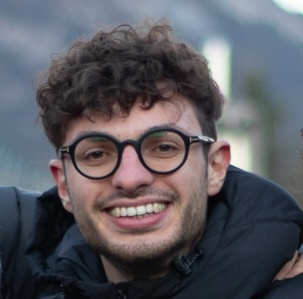
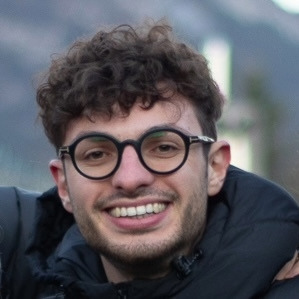
add saul pierotti to members, resize alberto's picture to make it square so that it doesn't throw off the alignment in the page

diff --git a/team/_posts/2025-11-01-pierotti-saul.md b/team/_posts/2025-11-01-pierotti-saul.md
@@ -1,0 +1,25 @@
+---
+layout: member
+title: Saul Pierotti
+position: Postdoctoral Researcher
+handle: saul
+science_names: [Pierotti S]
+image: pierotti-saul.png
+alumni: false
+country: [it]
+
+# social
+email: s.pierotti@lumc.nl
+site: https://saulpierotti.github.io/
+github: saulpierotti
+orcid: 0000-0002-5942-0793
+linkedin: saulpierotti
+scholar: mQKzUiIAAAAJ
+cv: https://saulpierotti.github.io/documents/cv_academic_pierotti_eng.pdf
+researchgate: Saul_Pierotti
+twitter: saulpierotti
+---
+
+Saul joined the Zeller lab in 2025 after completing his PhD in statistical genetics in Ewan Birney's group at the European Bioinformatics Institute and the University of Cambridge (UK). He previously obtained an MSc in Bioinformatics from the University of Bologna (Italy) and a BSc in Biotechnology from the University of Perugia (Italy).
+
+In the Zeller lab, Saul's research focuses on characterising the role of the human gut microbiome in drug metabolism and its influence on treatment outcomes across different diseases, with the ultimate goal of informing clinical practice. His work centres on developing statistical methods to analyse heterogeneous, multi-omics longitudinal datasets, drawing inspiration from analytical frameworks established in statistical genetics. He is also interested in characterising gut microbiome dysbiosis within an interpretable statistical framework.
